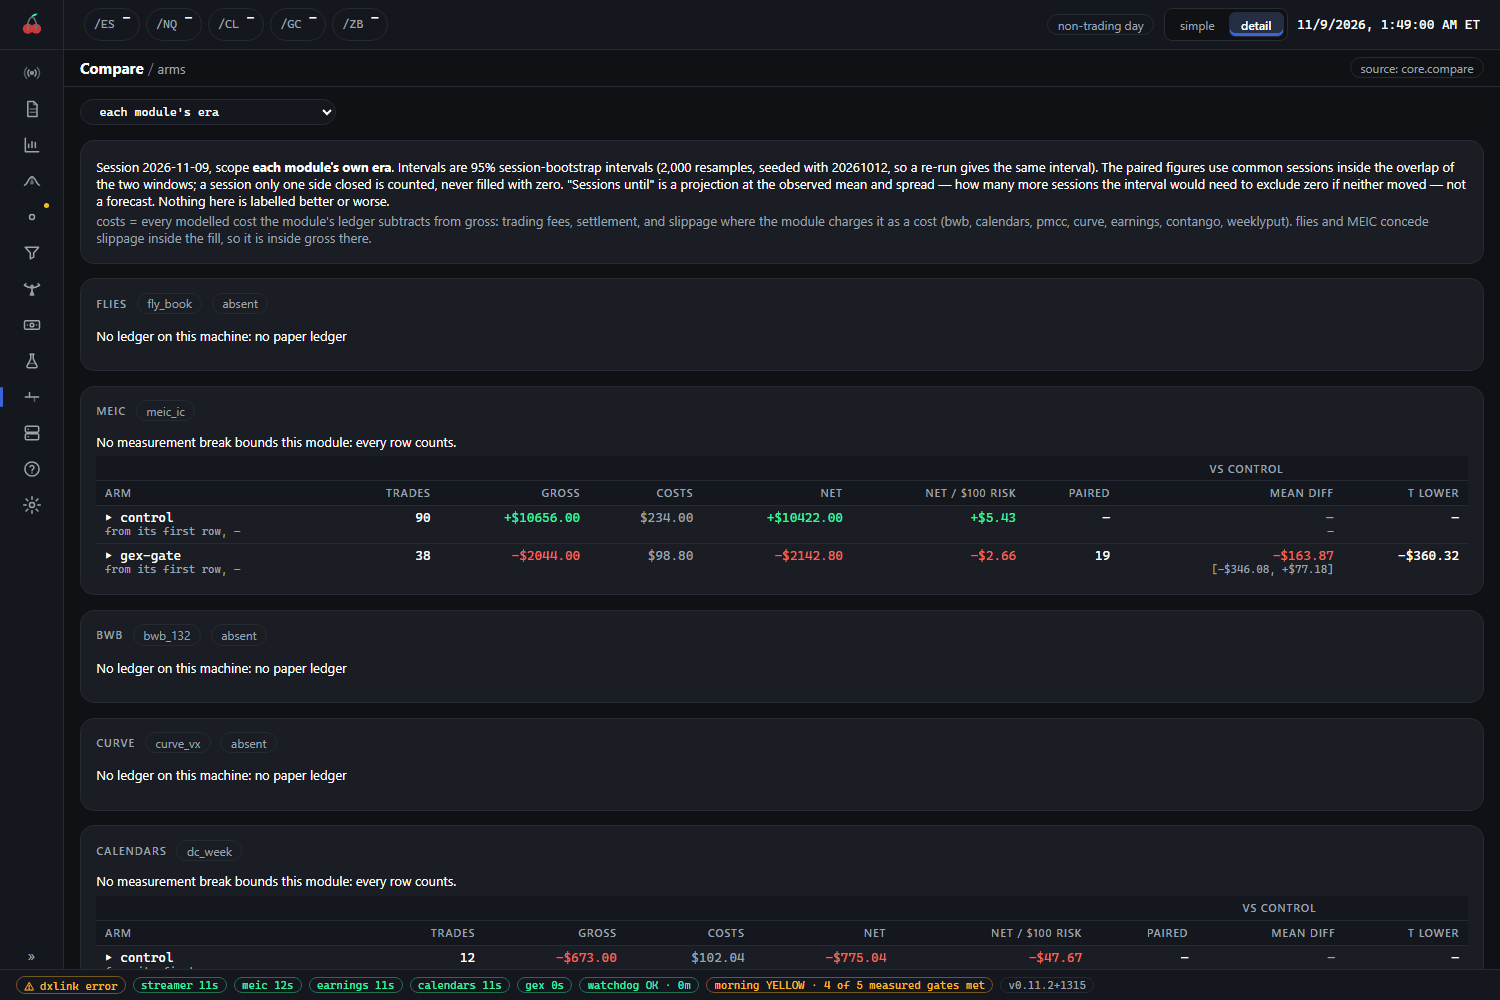
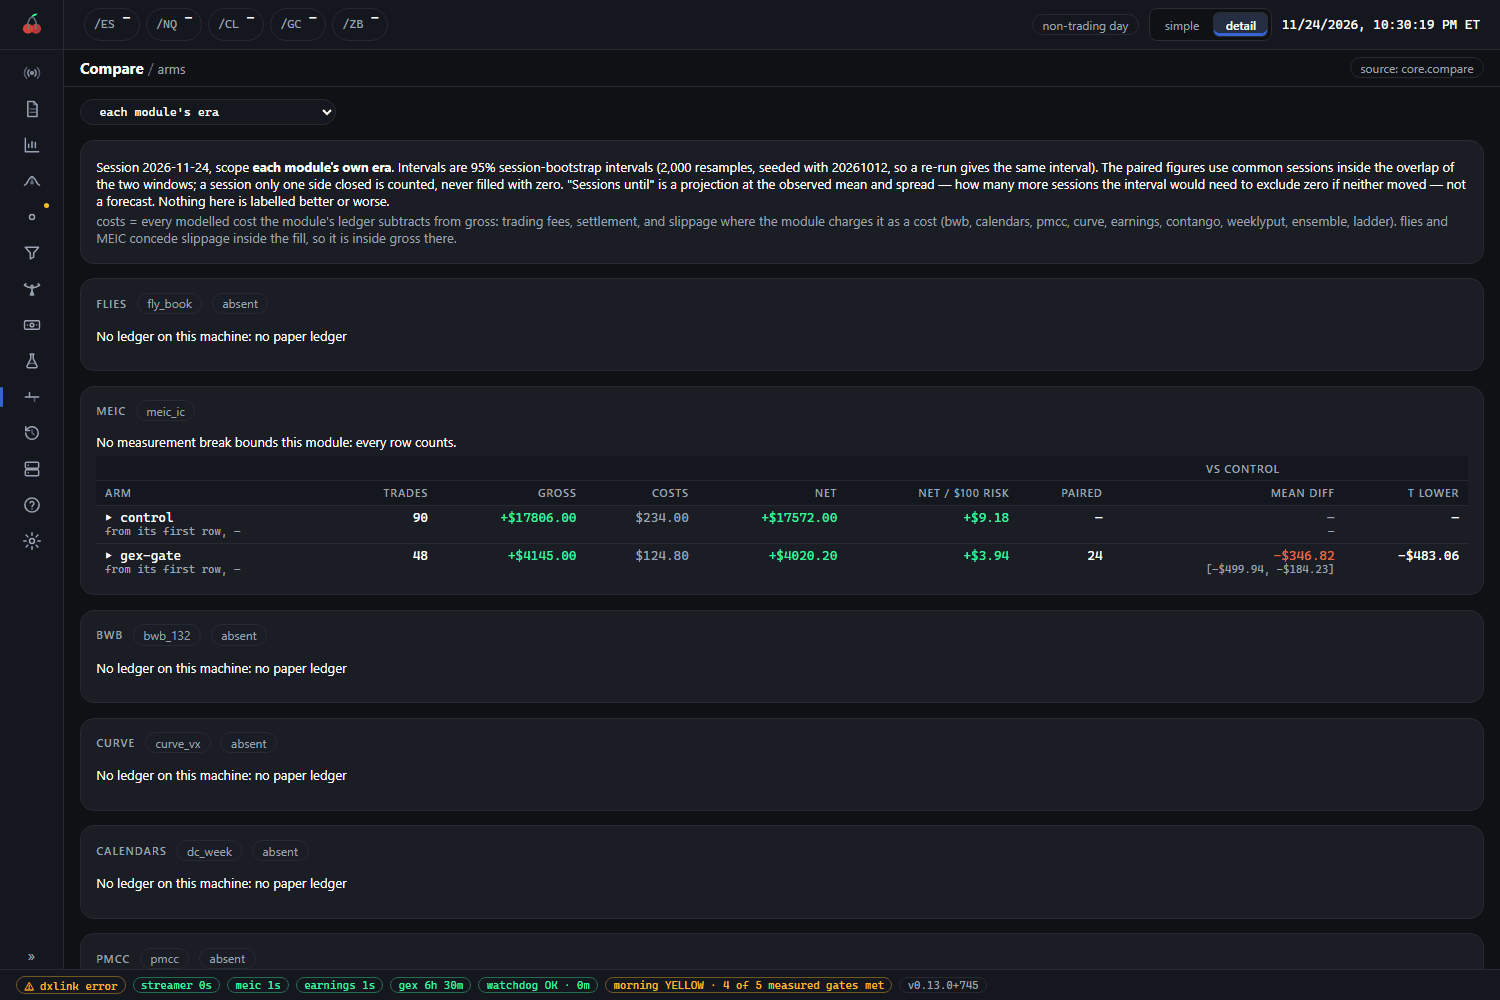
docs: reshoot the guide's console images for 0.14, fix two guide pages
The seven images that changed on the reshoot (live today, portfolio and
wheel, both reports tabs, compare arms and system health) come from the
demo home as it now stands, without the retired calendars and contango.

Two guide pages described a console that has moved on: the Live page's
tab list still named meic as a tab (it redirects to today, where MEIC has
its card), and the eod tab's modules are rows, not cards.

diff --git a/docs/guide/live.md b/docs/guide/live.md
@@ -1,10 +1,10 @@
 # Live
 
 The Live page is where real money is shown, and it places, changes and cancels no order. Its one write,
-off unless you turn it on, is the arm-for-today switch on a loop's card (see [today](#today)). It has seven tabs: `/live/today`, `/live/positions`, `/live/portfolio`, `/live/wheel`,
-`/live/pmcc`, `/live/flies` and `/live/meic`. Opening the console lands you on `/live`, which shows
-the first tab. Older bookmarks still work: `/live/manage` goes to positions and `/live/execution` goes
-to meic.
+off unless you turn it on, is the arm-for-today switch on a loop's card (see [today](#today)). It has six tabs: `/live/today`, `/live/positions`, `/live/portfolio`, `/live/wheel`,
+`/live/pmcc` and `/live/flies` (the last only in the detail view, since flies is retired). Opening the
+console lands you on `/live`, which shows the first tab. Older bookmarks still work: `/live/manage` goes
+to positions, and `/live/execution` and `/live/meic` go to today, where MEIC has its card.
 
 ## What you see
 
@@ -25,9 +25,10 @@ The tabs answer two different questions, and the difference matters.
   an account select in the header: the first (main) login's account by default, another by name, or
   all accounts. The choice is `?acct=` in the address and holds as you move between the tabs. With
   one account there is no select.
-- **The suite's own live loops.** `meic` (and the retired `flies`) show one module's live loop: whether
-  it is armed for today, what it has open and what it has settled. These are trades the suite placed
-  itself, on a day you armed it. `today` adds up all the loops on one page.
+- **The suite's own live loops.** `today` has a card for each loop (MEIC, and the ladder when it is
+  on): whether it is armed for today, what it has open and what it has settled, with the day's net over
+  all of them on top. These are trades the suite placed itself, on a day you armed it. The retired
+  `flies` keeps a tab of its own, its history.
 
 The `pmcc` tab here is not the paper PMCC experiment: it reads the PMCCs in your real account.
 Nothing on the other pages is real money unless a module is live and armed.
@@ -36,9 +37,9 @@ Nothing on the other pages is real money unless a module is live and armed.
 
 Under the page name, a chip sums up trading status. On the account tabs and `today` it reads
 `none armed` or, say, `1 armed`, with `HALTED` added when the halt flag is up, and `needs attention`
-when something wants you. On `meic` it is that module's own arm record: `meic · not armed · SPX`.
+when something wants you. On a loop's card it is that loop's own arm record, such as `not armed`.
 On `flies` it is the pilot's. Hover for the detail. Each live loop is armed separately, which is why
-one chip does not cover both. On the right sits the alert-daemon chip.
+one chip does not cover all of them. On the right sits the alert-daemon chip.
 
 ![Live today: the loops' net, the broker positions, and a card for each live loop](../images/live-today.png)
 

diff --git a/docs/guide/reports.md b/docs/guide/reports.md
@@ -39,7 +39,7 @@ open."
 
 ### The eod tab
 
-![The end-of-day review: needs attention, then one card a module](../images/reports-eod.png)
+![The end-of-day review: needs attention, then one row a module](../images/reports-eod.png)
 
 The page is titled **Suite review**. Chips beside the title say whether the review is `provisional` or
 `final`, that it covers `paper` trading, and the session date.
@@ -49,10 +49,11 @@ The page is titled **Suite review**. Chips beside the title say whether the revi
   trade count that looks like a regime change nobody journaled. A green `clear` chip with "Every module
   ticked, none errored, and no unjournaled regime change" is a good answer. (On the demo, the retired
   modules have no ledger, so they are listed as could not be read.)
-- **By module** has one card each. Its tiles are Net, Return on risk, Closed, Won / lost and Capital at
-  risk. A module with several arms gets a **By arm** table with a bar on each arm's net. **Expected vs
-  observed** compares what a model expected with what happened, when a model was recorded. A module that
-  could not be read shows an `unreadable` chip and the reason.
+- **By module** has one row each. Its columns are Net, Return on risk, Capital at risk, Closed, Won / lost
+  and Expected vs observed with any flags. Open a row to see its detail. A module with several arms gets a
+  **By arm** table with a bar on each arm's net. **Expected vs observed** compares what a model expected
+  with what happened, when a model was recorded. A module that could not be read shows an `unreadable`
+  chip and the reason.
 - **Note** is the written reading, when there is one.
 - At the foot, **This era** (or **All time**) adds up each module's net over every built session, with a
   small line for the running total. A module with one session gets no line.
